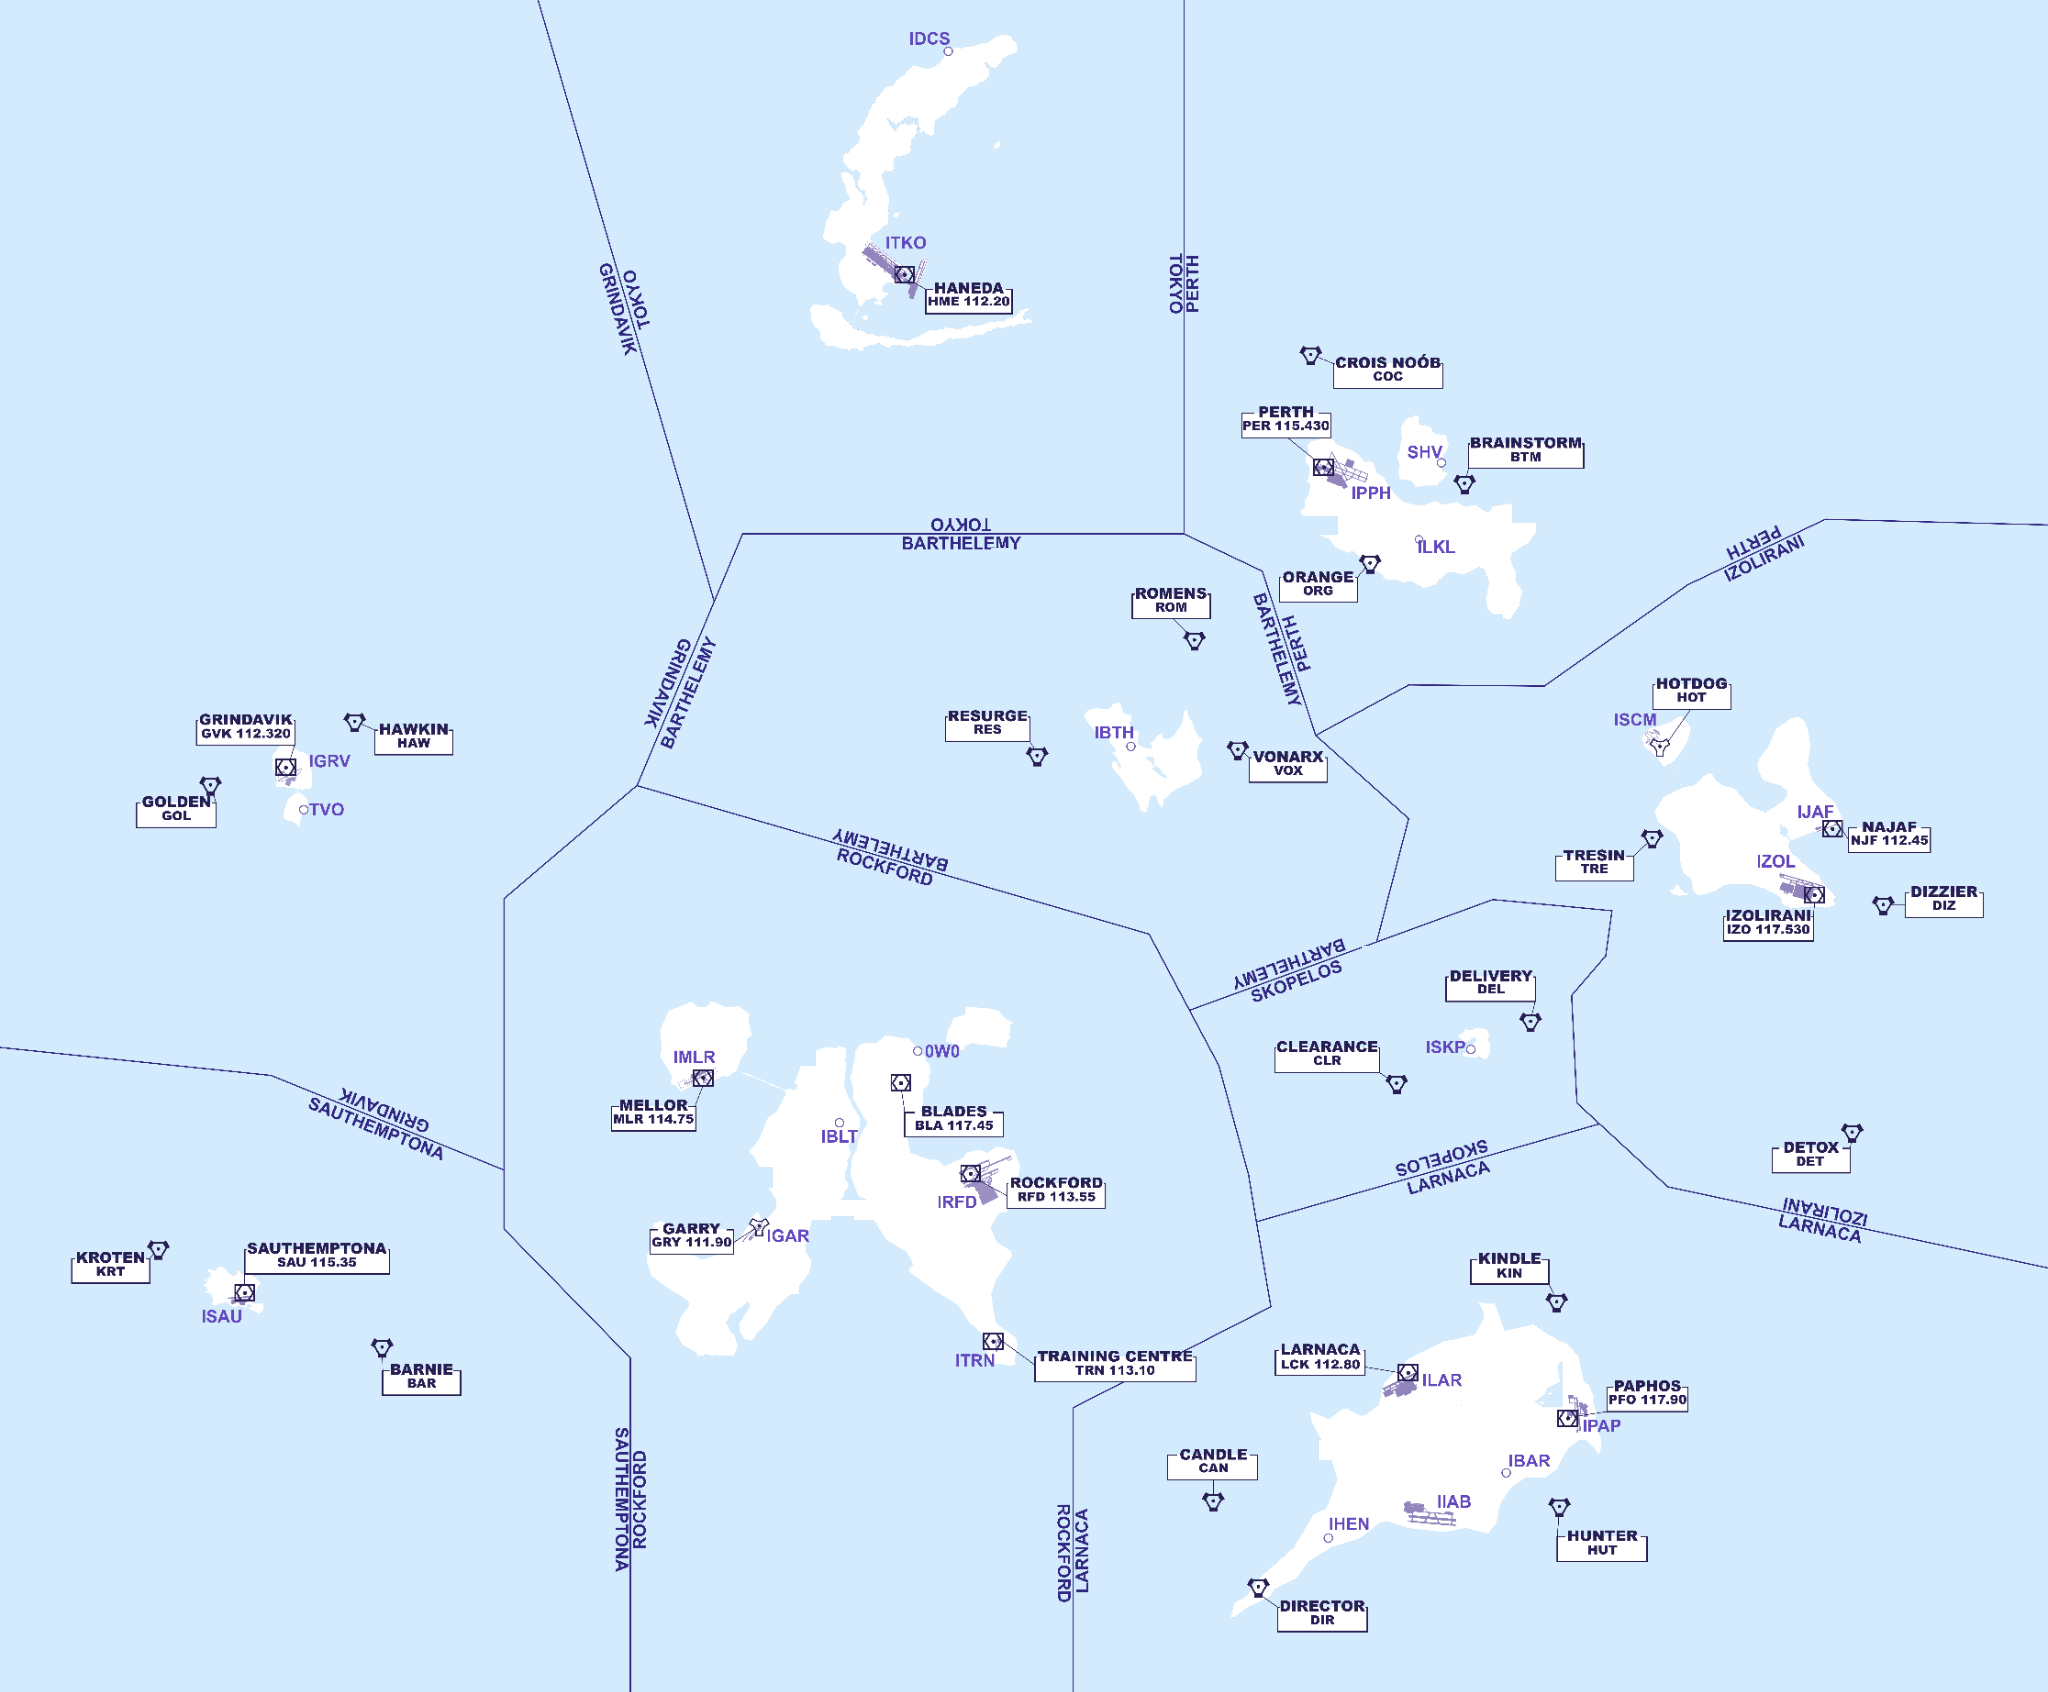
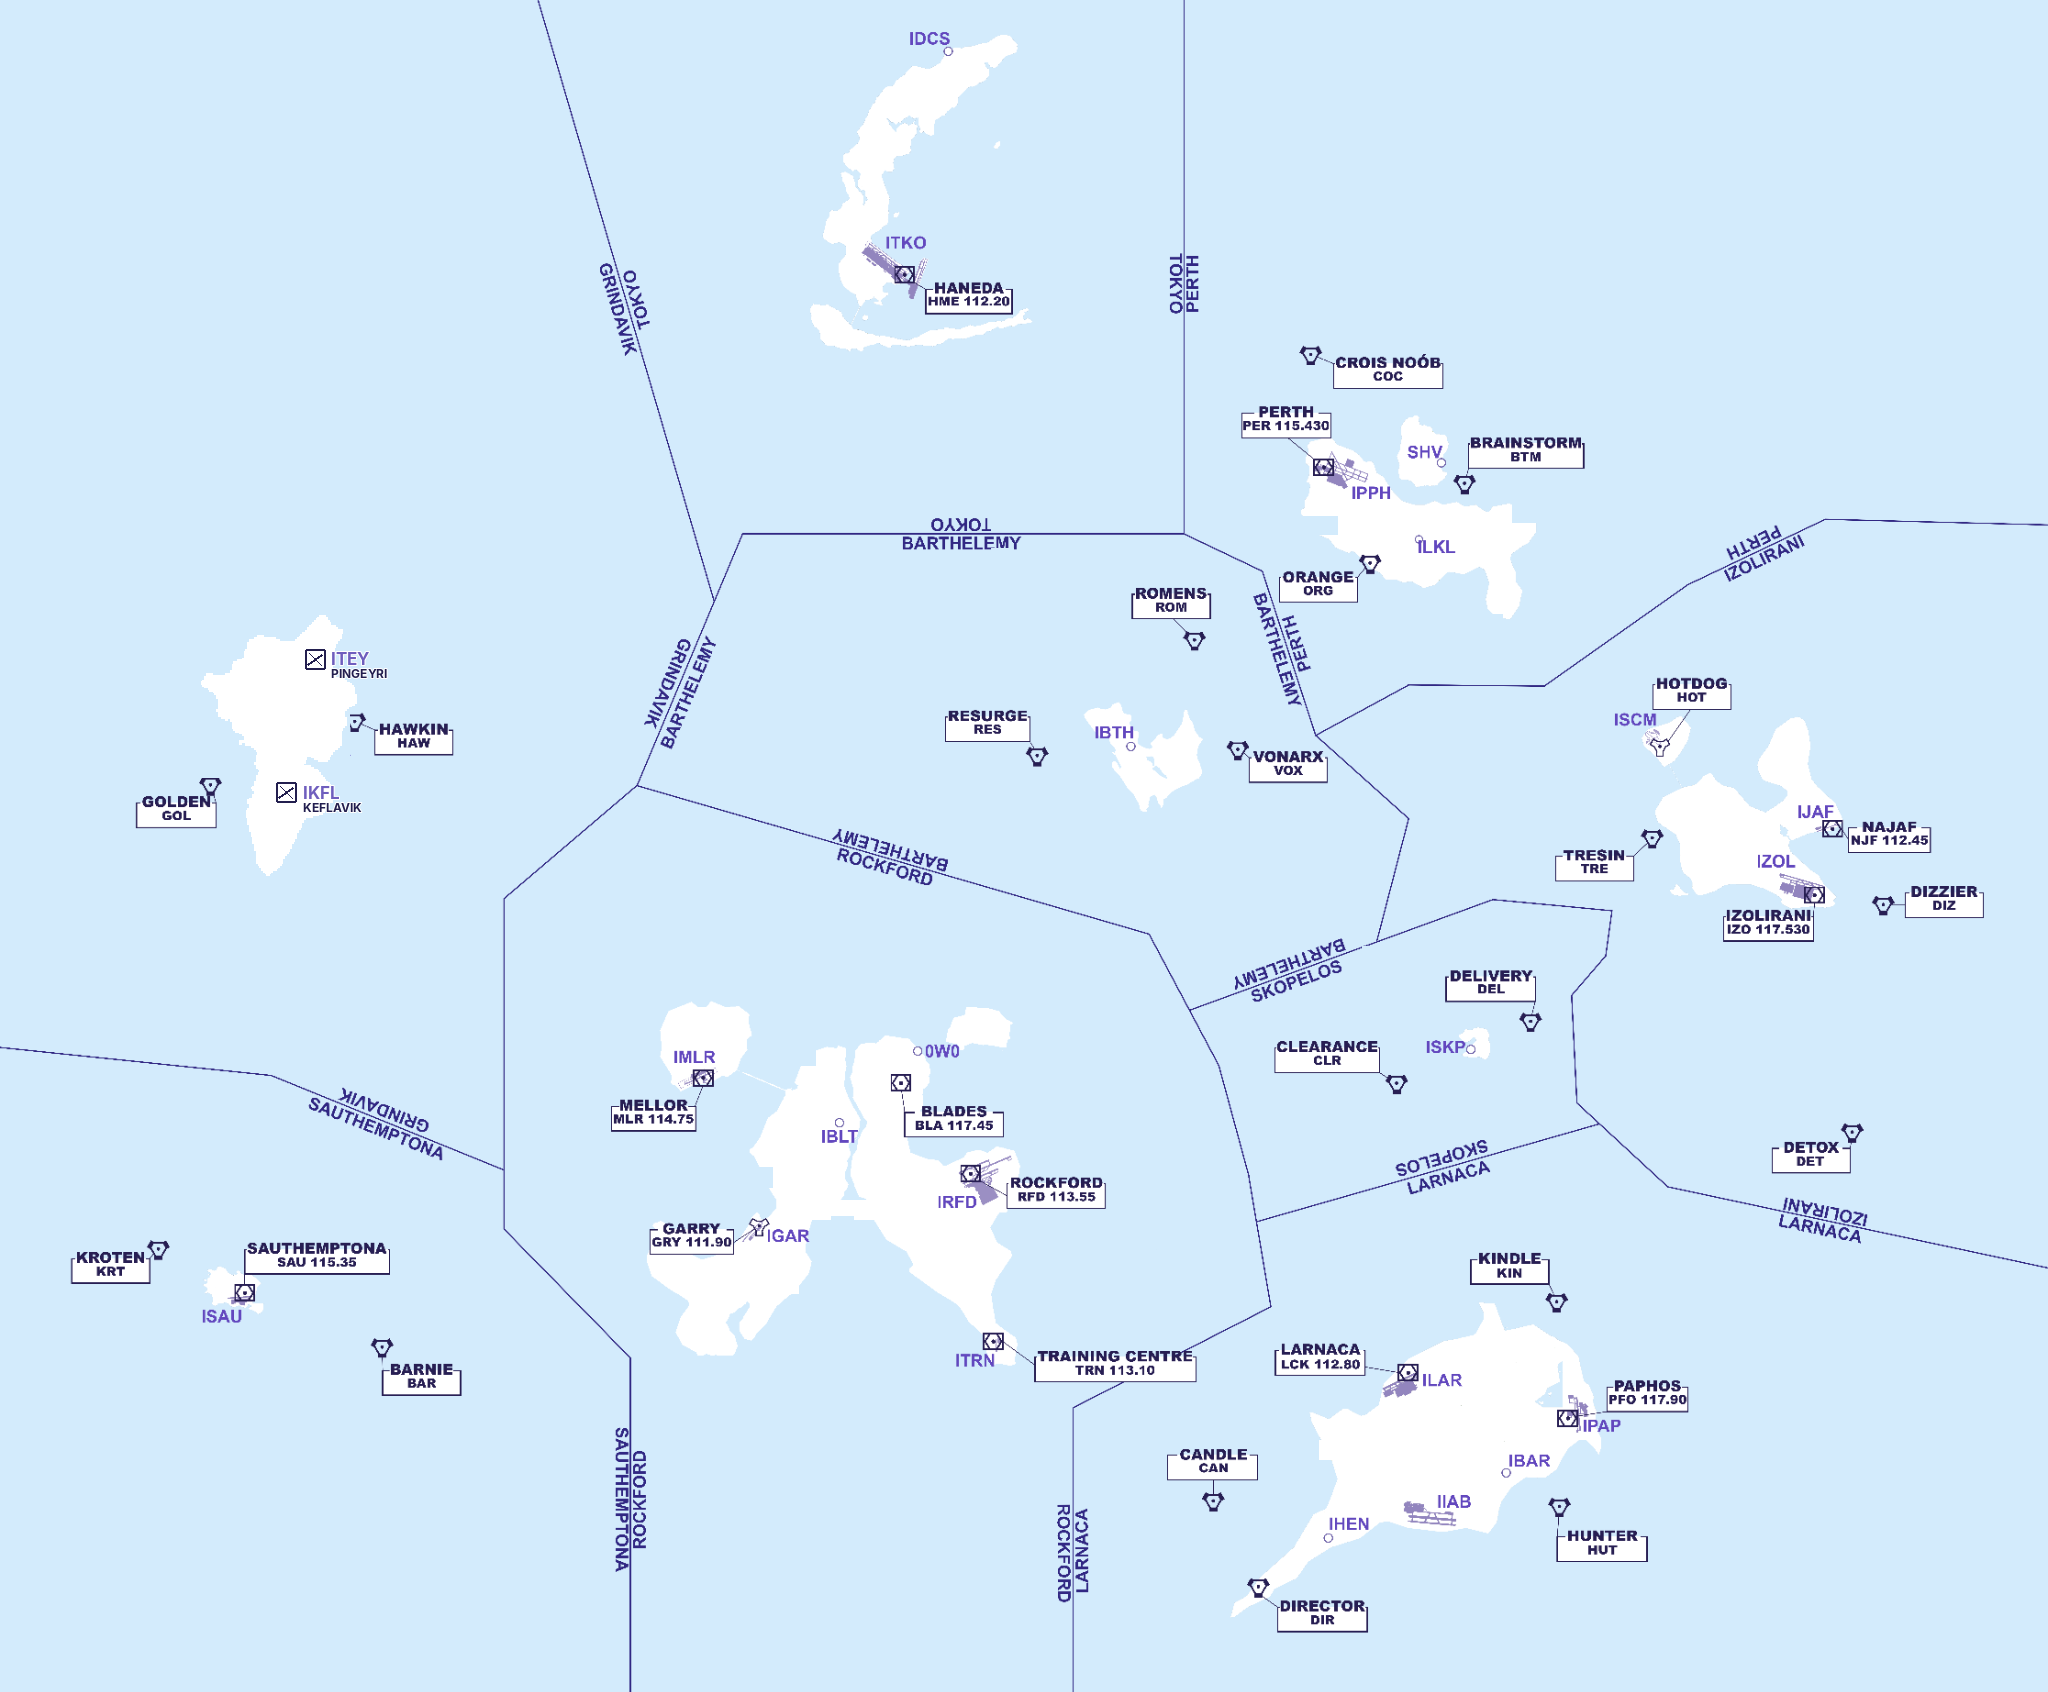
Add files via upload

Changed region(s): [[0.0938, 0.3688, 0.1875, 0.5225]]

diff --git a/public/index.html b/public/index.html
@@ -524,17 +524,32 @@
     background:rgba(255,255,255,.35);
     padding:12px;
   }
-  .atis-row{display:flex;gap:8px;flex-wrap:wrap;align-items:center;margin-bottom:8px;}
-  .atis-row textarea{
+  .atis-row{display:flex;gap:8px;flex-wrap:wrap;align-items:center;margin-bottom:10px;}
+  .atis-grid{display:grid;grid-template-columns:repeat(2,minmax(0,1fr));gap:10px;}
+  .atis-card{
+    min-width:0;
+    border:1px solid var(--rule);
+    border-radius:4px;
+    background:rgba(255,255,255,.5);
+    padding:10px;
+  }
+  .atis-card-head{display:flex;justify-content:space-between;align-items:flex-start;gap:8px;margin-bottom:7px;}
+  .atis-card-title{font-size:10px;font-weight:700;letter-spacing:.09em;text-transform:uppercase;color:var(--ink-soft);}
+  .atis-airport-code{font-family:'JetBrains Mono',monospace;font-size:17px;font-weight:700;color:var(--ink);}
+  .atis-status{font-size:10px;line-height:1.35;color:var(--ink-soft);text-align:right;}
+  .atis-card textarea{
     width:100%;
-    min-height:56px;
-    font-size:12px;
+    min-height:92px;
+    font-size:11.5px;
+    line-height:1.45;
     border:1px dashed var(--rule);
     border-radius:3px;
-    padding:6px 8px;
-    background:rgba(255,255,255,.5);
+    padding:7px 8px;
+    background:rgba(255,255,255,.62);
+    resize:vertical;
   }
-  .atis-chips{display:flex;flex-wrap:wrap;gap:6px;margin-top:8px;}
+  .atis-card-actions{display:flex;justify-content:flex-end;margin-top:7px;}
+  .atis-chips{display:flex;flex-wrap:wrap;gap:6px;margin-top:8px;min-height:21px;}
   .chip{
     font-family:'JetBrains Mono',monospace;
     font-size:11px;
@@ -543,7 +558,7 @@
     padding:3px 9px;
     border-radius:20px;
   }
-  .atis-note{font-size:10.5px;color:var(--ink-soft);margin-top:6px;line-height:1.5;}
+  .atis-note{font-size:10.5px;color:var(--ink-soft);margin-top:8px;line-height:1.5;}
 
   /* ===== Performance ===== */
   .perf-grid{
@@ -697,7 +712,7 @@
   @media(max-width:720px){
     .grid, .perf-grid{grid-template-columns:repeat(2,1fr);}
     .field.wide{grid-column:span 2;}
-    .sig-wrap{grid-template-columns:1fr;}
+    .sig-wrap,.atis-grid{grid-template-columns:1fr;}
     #manifest{padding:22px 16px 20px;}
     .head h2{font-size:24px;}
   }
@@ -848,15 +863,36 @@
         <div class="sub-title"><h4>ATIS</h4><div class="line-thin"></div></div>
         <div class="atis-box">
           <div class="atis-row no-export">
-            <button class="btn-ghost btn-small" id="fetchAtisBtn" style="border-color:var(--rule-strong);color:var(--ink-soft);">Fetch live ATIS</button>
-            <span style="font-size:10.5px;color:var(--ink-soft);">or paste the current ATIS text below</span>
+            <button class="btn-ghost btn-small" id="fetchAtisBtn" style="border-color:var(--rule-strong);color:var(--ink-soft);">Fetch departure + arrival ATIS</button>
+            <span style="font-size:10.5px;color:var(--ink-soft);">Both airports are fetched together and parsed automatically.</span>
           </div>
-          <div class="atis-row">
-            <textarea id="atisPaste" placeholder="Paste raw ATIS text here, e.g. LFPI ATIS INFO ROMEO... WIND 270/08... ACTIVE RWY 27..."></textarea>
+          <div class="atis-grid">
+            <section class="atis-card" aria-labelledby="departureAtisTitle">
+              <div class="atis-card-head">
+                <div>
+                  <div class="atis-card-title" id="departureAtisTitle">Departure ATIS</div>
+                  <div class="atis-airport-code" id="departureAtisCode">----</div>
+                </div>
+                <div class="atis-status" id="departureAtisStatus">Enter a departure airport</div>
+              </div>
+              <textarea id="departureAtisPaste" placeholder="Live departure ATIS will appear here. You can also paste text manually."></textarea>
+              <div class="atis-card-actions no-export"><button class="btn-ghost btn-small parse-atis-btn" type="button" data-atis-panel="departure">Parse departure ATIS</button></div>
+              <div class="atis-chips" id="departureAtisChips"></div>
+            </section>
+            <section class="atis-card" aria-labelledby="arrivalAtisTitle">
+              <div class="atis-card-head">
+                <div>
+                  <div class="atis-card-title" id="arrivalAtisTitle">Arrival ATIS</div>
+                  <div class="atis-airport-code" id="arrivalAtisCode">----</div>
+                </div>
+                <div class="atis-status" id="arrivalAtisStatus">Enter an arrival airport</div>
+              </div>
+              <textarea id="arrivalAtisPaste" placeholder="Live arrival ATIS will appear here. You can also paste text manually."></textarea>
+              <div class="atis-card-actions no-export"><button class="btn-ghost btn-small parse-atis-btn" type="button" data-atis-panel="arrival">Parse arrival ATIS</button></div>
+              <div class="atis-chips" id="arrivalAtisChips"></div>
+            </section>
           </div>
-          <button class="btn-ghost btn-small no-export" id="parseAtisBtn">Parse ATIS</button>
-          <div class="atis-chips" id="atisChips"></div>
-          <div class="atis-note">"Fetch live ATIS" pulls from ATC24's real 24data feed via this site's own backend (required by 24data's terms — browsers can't call it directly). Uses whichever of Departure/Arrival Airport is filled in above.</div>
+          <div class="atis-note">Live data comes from 24data through this site's backend cache. The raw reports stay visible while runway, wind, altimeter, and information-letter fields are shown as quick-reference chips.</div>
         </div>
 
       </div>
@@ -1186,7 +1222,7 @@
     IHEN: {x:1336, y:1534},
     IIAB: {x:1455, y:1500},
     IJAF: {x:1817, y:821},
-    IKFL: {x:285, y:763},
+    IKFL: {x:286, y:792},
     ILAR: {x:1408, y:1375},
     ILKL: {x:1420, y:536},
     IMLR: {x:700, y:1070},
@@ -1196,7 +1232,7 @@
     ISAU: {x:243, y:1290},
     ISCM: {x:1658, y:717},
     ISKP: {x:1450, y:1043},
-    ITEY: {x:287, y:801},
+    ITEY: {x:315, y:659},
     ITKO: {x:901, y:274},
     ITRC: {x:990, y:1342},
     IUFO: {x:900, y:1074},
@@ -2135,62 +2171,147 @@
   arrAirport.addEventListener('blur', ()=>refreshAirportField(arrAirport, arrAirportResolved, true));
 
   // ===== ATIS =====
-  document.getElementById('parseAtisBtn').addEventListener('click', ()=>{
-    const text = document.getElementById('atisPaste').value.toUpperCase();
-    const chips = document.getElementById('atisChips');
-    chips.innerHTML = '';
+  const atisPanels = {
+    departure: {
+      input: document.getElementById('departureAtisPaste'),
+      chips: document.getElementById('departureAtisChips'),
+      code: document.getElementById('departureAtisCode'),
+      status: document.getElementById('departureAtisStatus'),
+      airportInput: depAirport,
+      emptyText: 'Enter a departure airport'
+    },
+    arrival: {
+      input: document.getElementById('arrivalAtisPaste'),
+      chips: document.getElementById('arrivalAtisChips'),
+      code: document.getElementById('arrivalAtisCode'),
+      status: document.getElementById('arrivalAtisStatus'),
+      airportInput: arrAirport,
+      emptyText: 'Enter an arrival airport'
+    }
+  };
+
+  function parseAtisInto(panelKey){
+    const panel = atisPanels[panelKey];
+    if(!panel) return 0;
+    const text = panel.input.value.toUpperCase();
+    panel.chips.innerHTML = '';
     const patterns = {
-      'INFO':    /INFO(?:RMATION)?\s+([A-Z])/,
-      'RWY':     /(?:ACTIVE\s+)?RWY\s+(\d{1,2}[LRC]?)/,
-      'WIND':    /WIND\s+(\d{2,3}\/\d{1,3}|\d{3}\d{2}(?:G\d{2})?KT)/,
-      'ALTIM':   /(?:ALTIM(?:ETER)?|QNH)\s+([\d.]+)/,
+      'INFO':  /INFO(?:RMATION)?\s+([A-Z])/,
+      'RWY':   /(?:ACTIVE\s+)?RWY\s+(\d{1,2}[LRC]?)/,
+      'WIND':  /WIND\s+(\d{2,3}\/\d{1,3}|\d{3}\d{2}(?:G\d{2})?KT)/,
+      'ALTIM': /(?:ALTIM(?:ETER)?|QNH)\s+([\d.]+)/,
     };
     let found = 0;
     Object.entries(patterns).forEach(([label, re])=>{
-      const m = text.match(re);
-      if(m){
-        const chip = document.createElement('span');
-        chip.className = 'chip';
-        chip.textContent = `${label}: ${m[1]}`;
-        chips.appendChild(chip);
-        found++;
-      }
+      const match = text.match(re);
+      if(!match) return;
+      const chip = document.createElement('span');
+      chip.className = 'chip';
+      chip.textContent = `${label}: ${match[1]}`;
+      panel.chips.appendChild(chip);
+      found++;
     });
-    if(found === 0){
+    if(found === 0 && text.trim()){
       const chip = document.createElement('span');
       chip.className = 'chip';
       chip.style.background = '#a5382c';
-      chip.textContent = 'No recognizable fields found — check the pasted text';
-      chips.appendChild(chip);
+      chip.textContent = 'No recognizable fields found';
+      panel.chips.appendChild(chip);
     }
+    return found;
+  }
+
+  document.querySelectorAll('.parse-atis-btn').forEach(btn=>{
+    btn.addEventListener('click', ()=>parseAtisInto(btn.dataset.atisPanel));
   });
+
+  function syncAtisAirportLabels(clearChanged=true){
+    Object.entries(atisPanels).forEach(([key, panel])=>{
+      const code = airportCode(panel.airportInput.value || '');
+      const previous = panel.code.dataset.airport || '';
+      panel.code.textContent = code || '----';
+      panel.code.dataset.airport = code;
+      if(clearChanged && previous && previous !== code){
+        panel.input.value = '';
+        panel.chips.innerHTML = '';
+      }
+      if(!code){
+        panel.status.textContent = panel.emptyText;
+      } else if(previous !== code){
+        panel.status.textContent = 'Ready to fetch';
+      }
+    });
+  }
+
+  depAirport.addEventListener('input', ()=>syncAtisAirportLabels());
+  depAirport.addEventListener('change', ()=>syncAtisAirportLabels());
+  arrAirport.addEventListener('input', ()=>syncAtisAirportLabels());
+  arrAirport.addEventListener('change', ()=>syncAtisAirportLabels());
+  syncAtisAirportLabels(false);
+
+  function atisReportText(entry){
+    if(!entry) return '';
+    if(entry.content) return String(entry.content);
+    return Array.isArray(entry.lines) ? entry.lines.join('\n') : '';
+  }
+
+  function showAtisResult(panelKey, airport, entry, fetchedAt){
+    const panel = atisPanels[panelKey];
+    panel.code.textContent = airport;
+    panel.code.dataset.airport = airport;
+    panel.chips.innerHTML = '';
+    if(!entry){
+      panel.input.value = '';
+      panel.status.textContent = 'No live ATIS available';
+      const chip = document.createElement('span');
+      chip.className = 'chip';
+      chip.style.background = '#a5382c';
+      chip.textContent = 'NO LIVE ATIS';
+      panel.chips.appendChild(chip);
+      return;
+    }
+    panel.input.value = atisReportText(entry);
+    const info = entry.letter ? `Information ${String(entry.letter).toUpperCase()}` : 'Live report';
+    const fetched = fetchedAt ? new Date(fetchedAt).toLocaleTimeString([], {hour:'2-digit', minute:'2-digit'}) : '';
+    panel.status.textContent = fetched ? `${info} · fetched ${fetched}` : info;
+    parseAtisInto(panelKey);
+  }
 
   document.getElementById('fetchAtisBtn').addEventListener('click', async ()=>{
     const btn = document.getElementById('fetchAtisBtn');
     const orig = btn.textContent;
-    const airport = airportCode(depAirport.value || arrAirport.value || '');
-    if(!airport){
-      btn.textContent = 'Enter an airport first';
-      setTimeout(()=>{ btn.textContent = orig; }, 1800);
+    const departure = airportCode(depAirport.value || '');
+    const arrival = airportCode(arrAirport.value || '');
+    syncAtisAirportLabels(false);
+    if(!departure || !arrival){
+      btn.textContent = 'Enter departure and arrival airports';
+      setTimeout(()=>{ btn.textContent = orig; }, 2200);
       return;
     }
-    btn.textContent = 'Fetching…';
+    btn.disabled = true;
+    btn.textContent = 'Fetching both ATIS reports…';
+    Object.values(atisPanels).forEach(panel=>{ panel.status.textContent = 'Fetching…'; });
     try{
-      const res = await fetch(`/api/atis?airport=${encodeURIComponent(airport)}`);
+      const requested = [...new Set([departure, arrival])];
+      const res = await fetch(`/api/atis?airports=${encodeURIComponent(requested.join(','))}`);
       if(!res.ok) throw new Error(await res.text());
-      const { data } = await res.json();
-      if(!data.length){
-        btn.textContent = `No ATIS found for ${airport.toUpperCase()}`;
-      } else {
-        document.getElementById('atisPaste').value = data[0].content;
-        document.getElementById('parseAtisBtn').click();
-        btn.textContent = 'Fetched!';
-      }
-    }catch(e){
-      console.error('24FlightBrief: ATIS fetch failed', e);
-      btn.textContent = 'Fetch failed — backend not deployed yet?';
+      const payload = await res.json();
+      const data = Array.isArray(payload.data) ? payload.data : [];
+      const byAirport = new Map();
+      data.forEach(entry=>{
+        const code = String(entry.airport || '').toUpperCase();
+        if(code && !byAirport.has(code)) byAirport.set(code, entry);
+      });
+      showAtisResult('departure', departure, byAirport.get(departure), payload.fetchedAt);
+      showAtisResult('arrival', arrival, byAirport.get(arrival), payload.fetchedAt);
+      btn.textContent = 'Both ATIS reports updated';
+    }catch(error){
+      console.error('24FlightBrief: ATIS fetch failed', error);
+      Object.values(atisPanels).forEach(panel=>{ panel.status.textContent = 'Fetch failed'; });
+      btn.textContent = 'ATIS fetch failed';
+    }finally{
+      setTimeout(()=>{ btn.textContent = orig; btn.disabled = false; }, 2400);
     }
-    setTimeout(()=>{ btn.textContent = orig; }, 2200);
   });
 
   // ===== Crew & passengers (unlimited, freeform role) =====
@@ -2455,7 +2576,7 @@
     updateTotals();
     refreshSuggestion();
     refreshBothAirportFields();
-    document.getElementById('atisChips').innerHTML = '';
+    Object.values(atisPanels).forEach(panel=>{ panel.chips.innerHTML=''; panel.status.textContent=panel.emptyText; panel.code.textContent='----'; panel.code.dataset.airport=''; });
     document.querySelectorAll('.sigpad').forEach(c=>{ const ctx=c.getContext('2d'); ctx.clearRect(0,0,c.width,c.height); });
     document.body.classList.remove('filed');
     document.getElementById('editBtn').style.display = 'none';